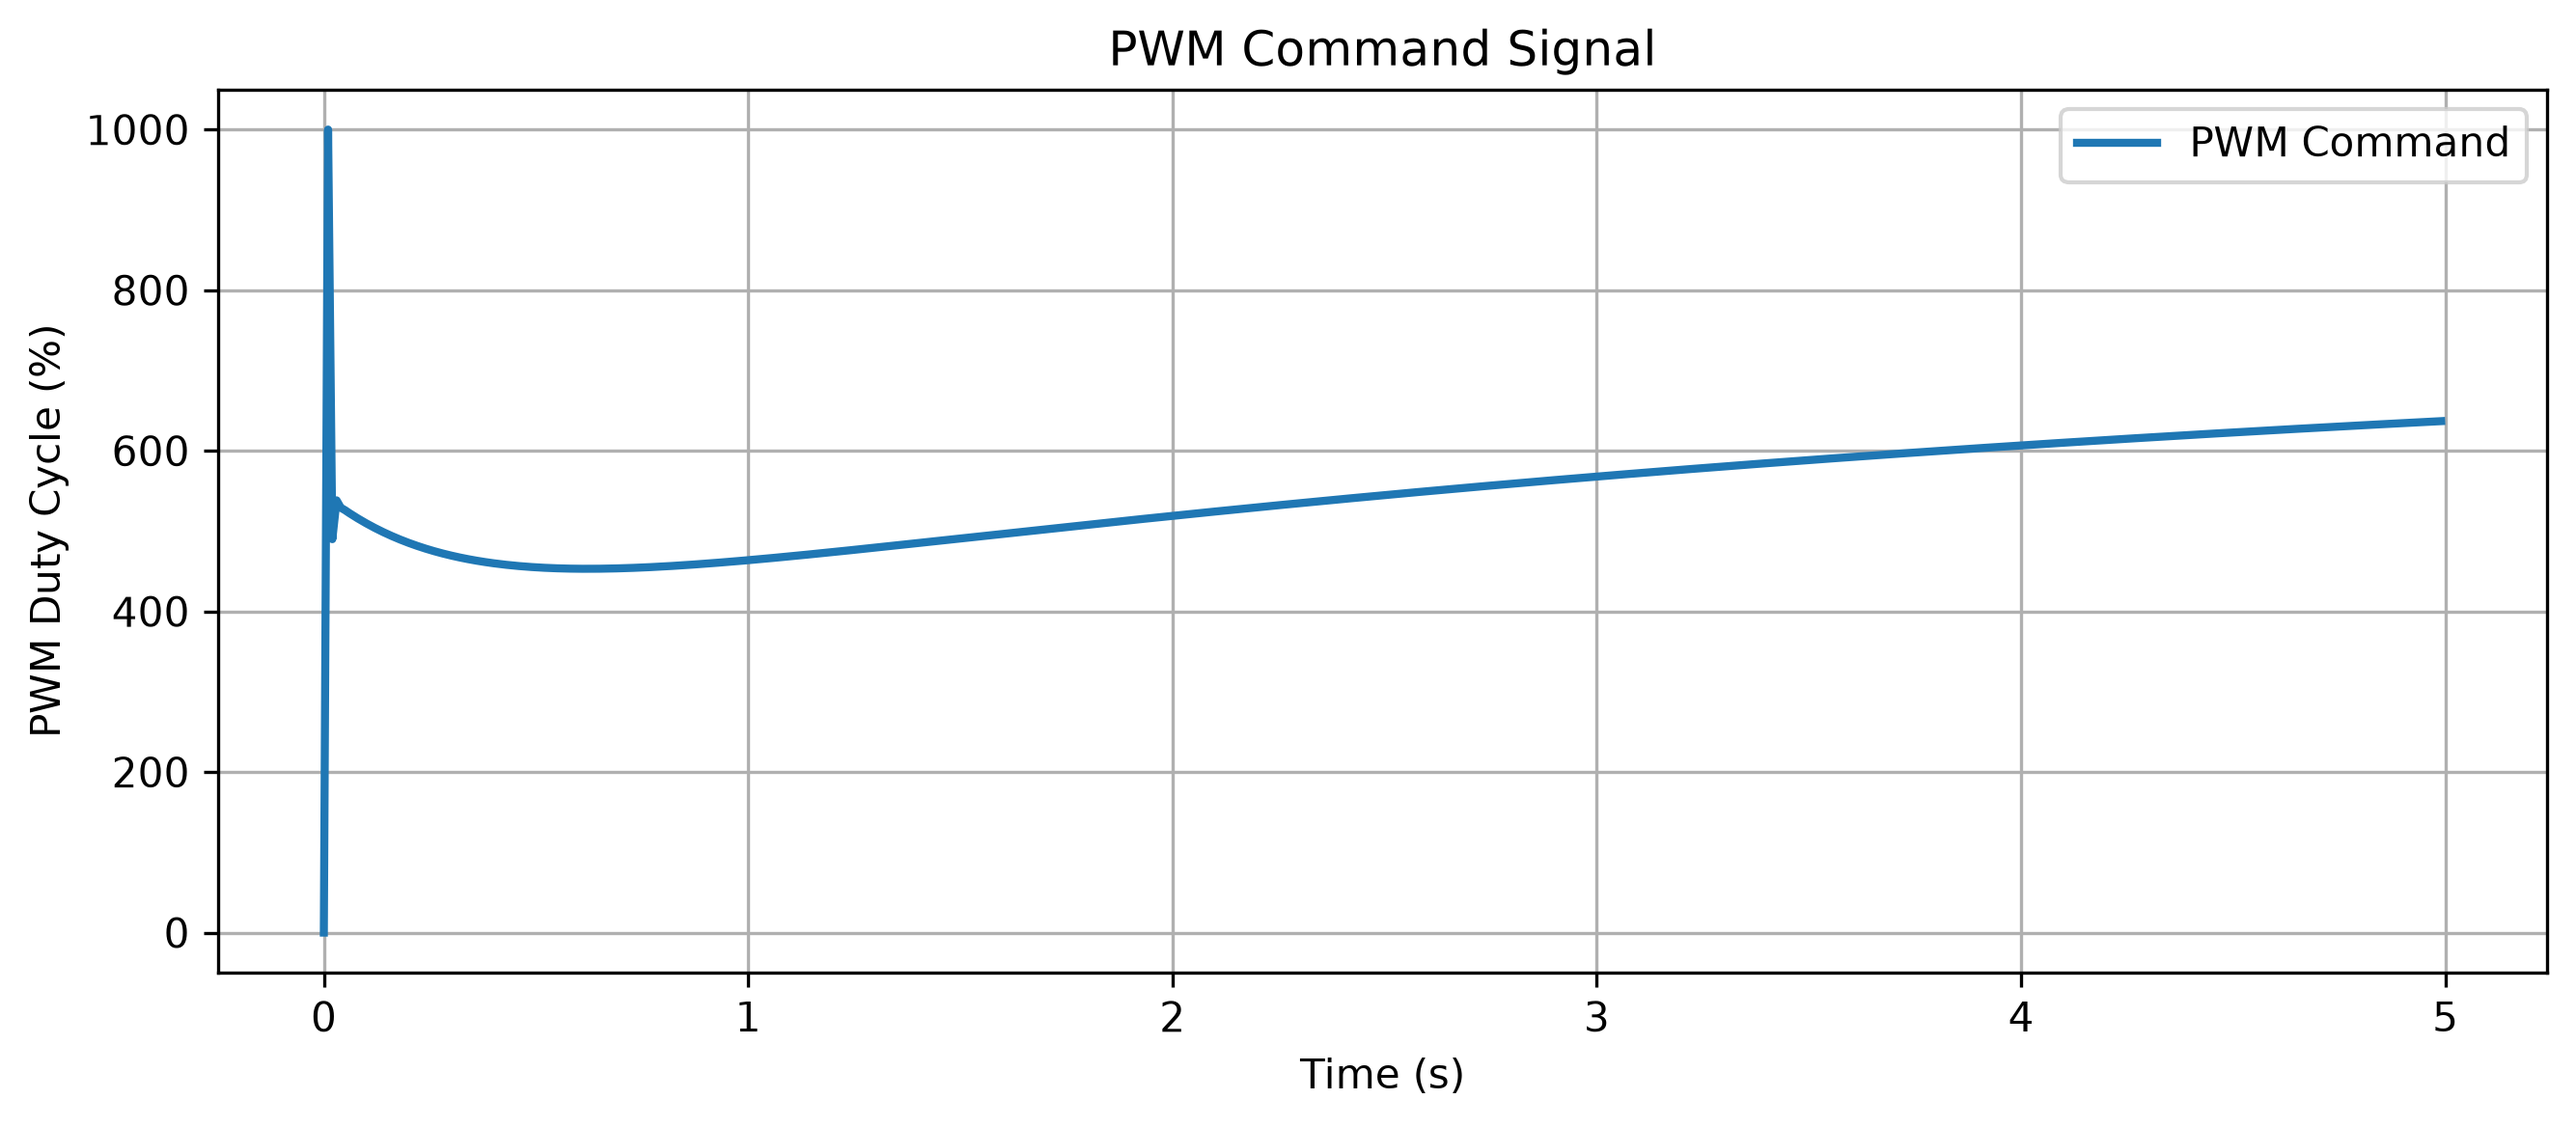
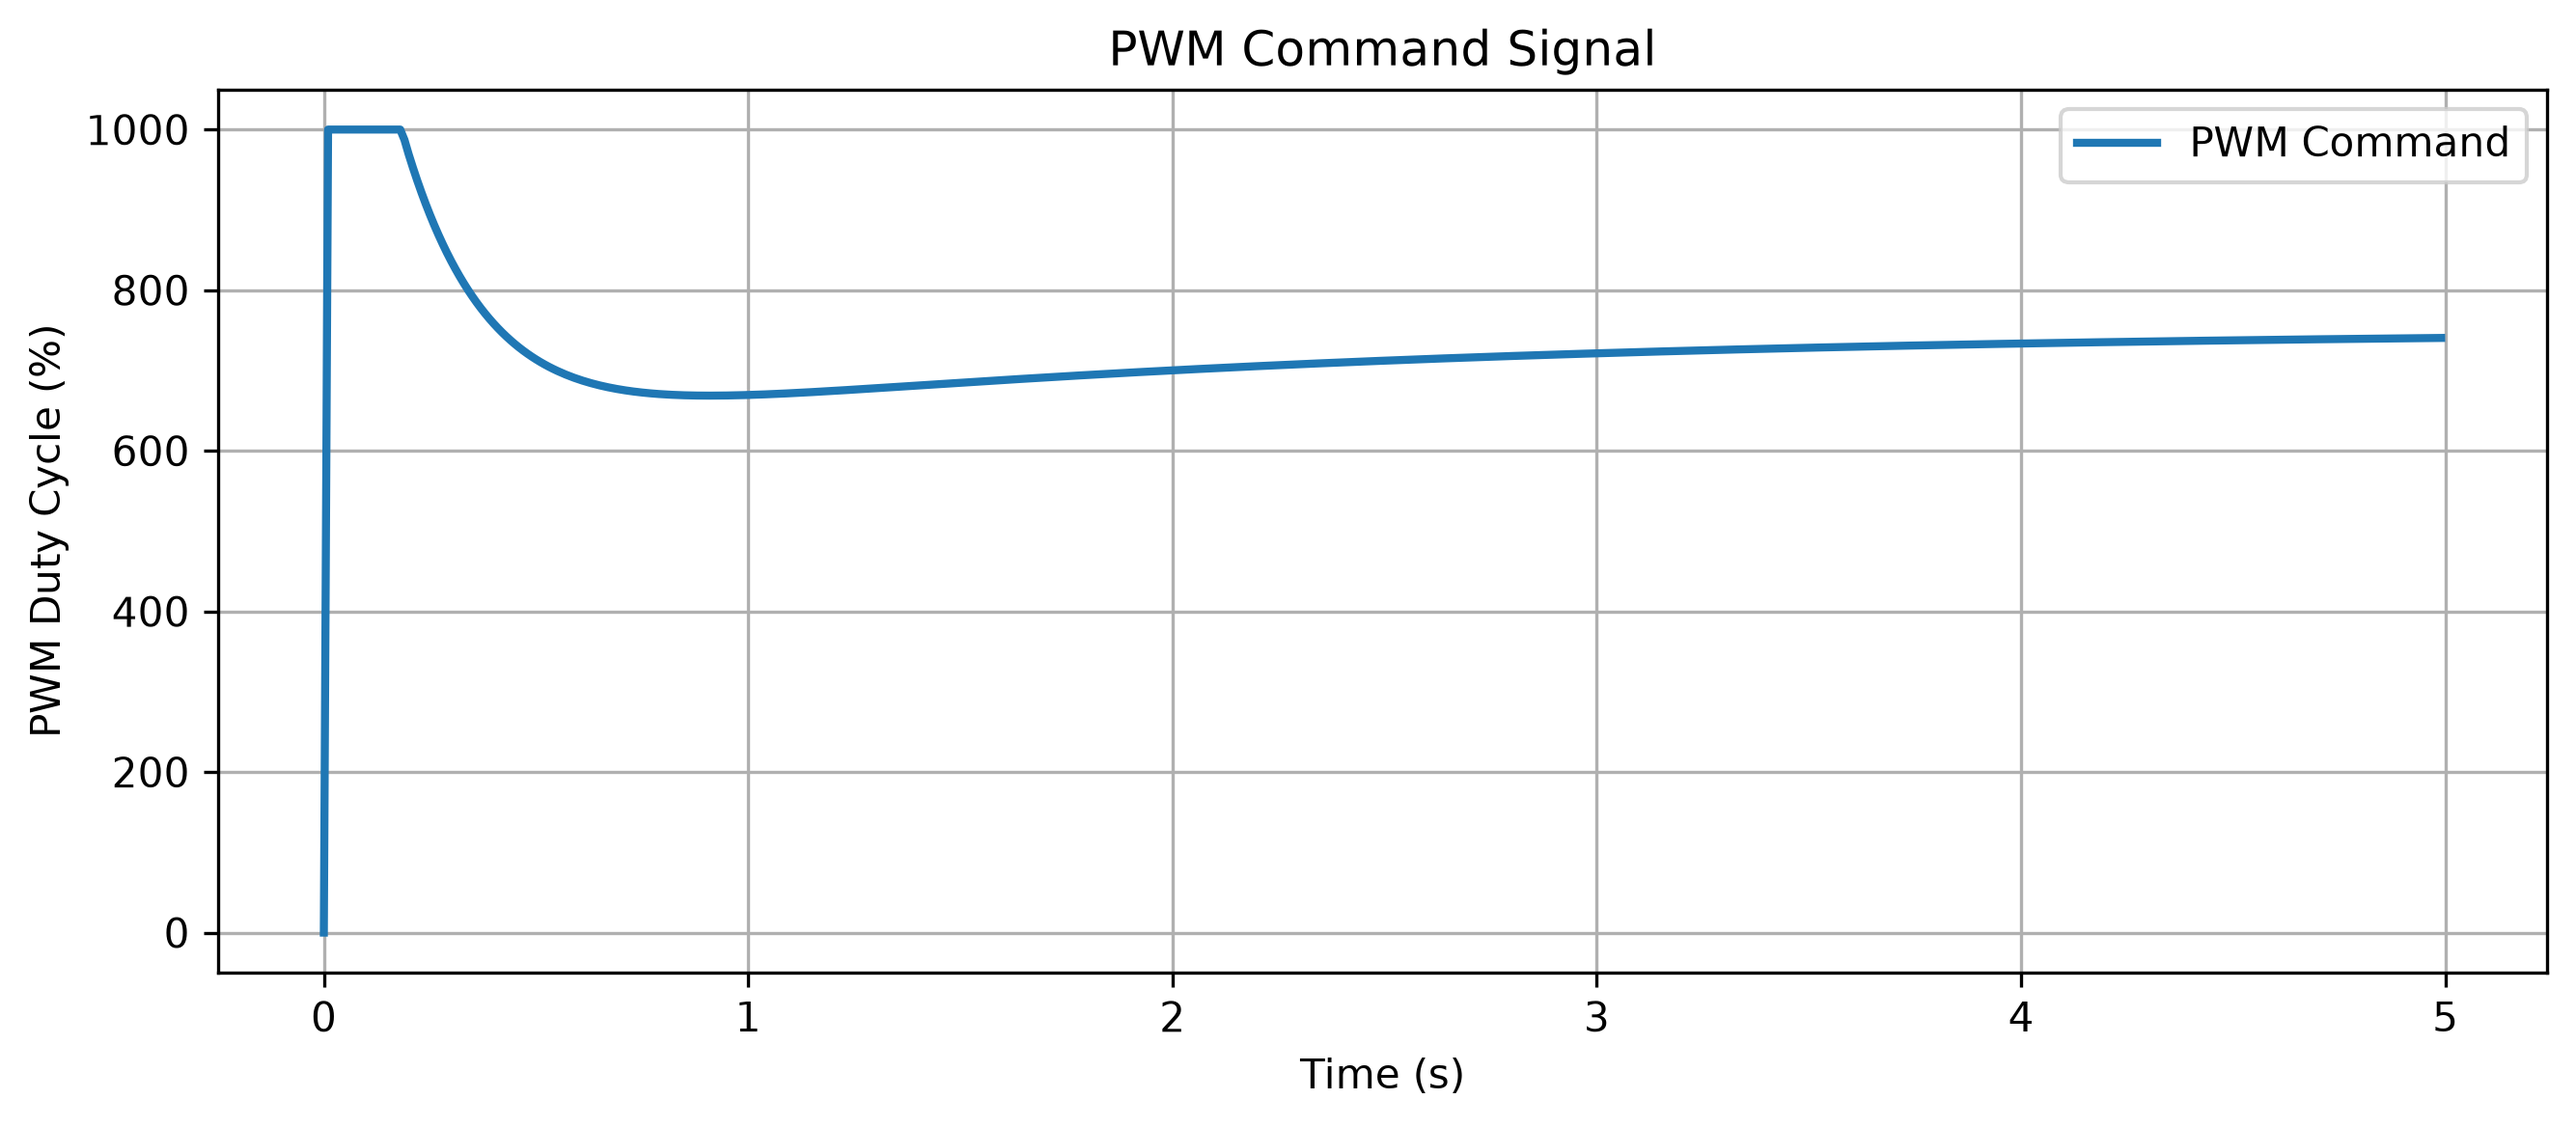
Tune PID speed controller response

diff --git a/src/pid_speed_controller.py b/src/pid_speed_controller.py
@@ -61,8 +61,8 @@ def simulate_pid_speed_control(
     dt=0.01,
     time_constant=0.5,
     max_speed=1000.0,
-    kp=0.8,
-    ki=0.4,
+    kp=2.0,
+    ki=1.5,
     kd=0.05,
 ):
     validate_non_negative_number(setpoint, "setpoint")
